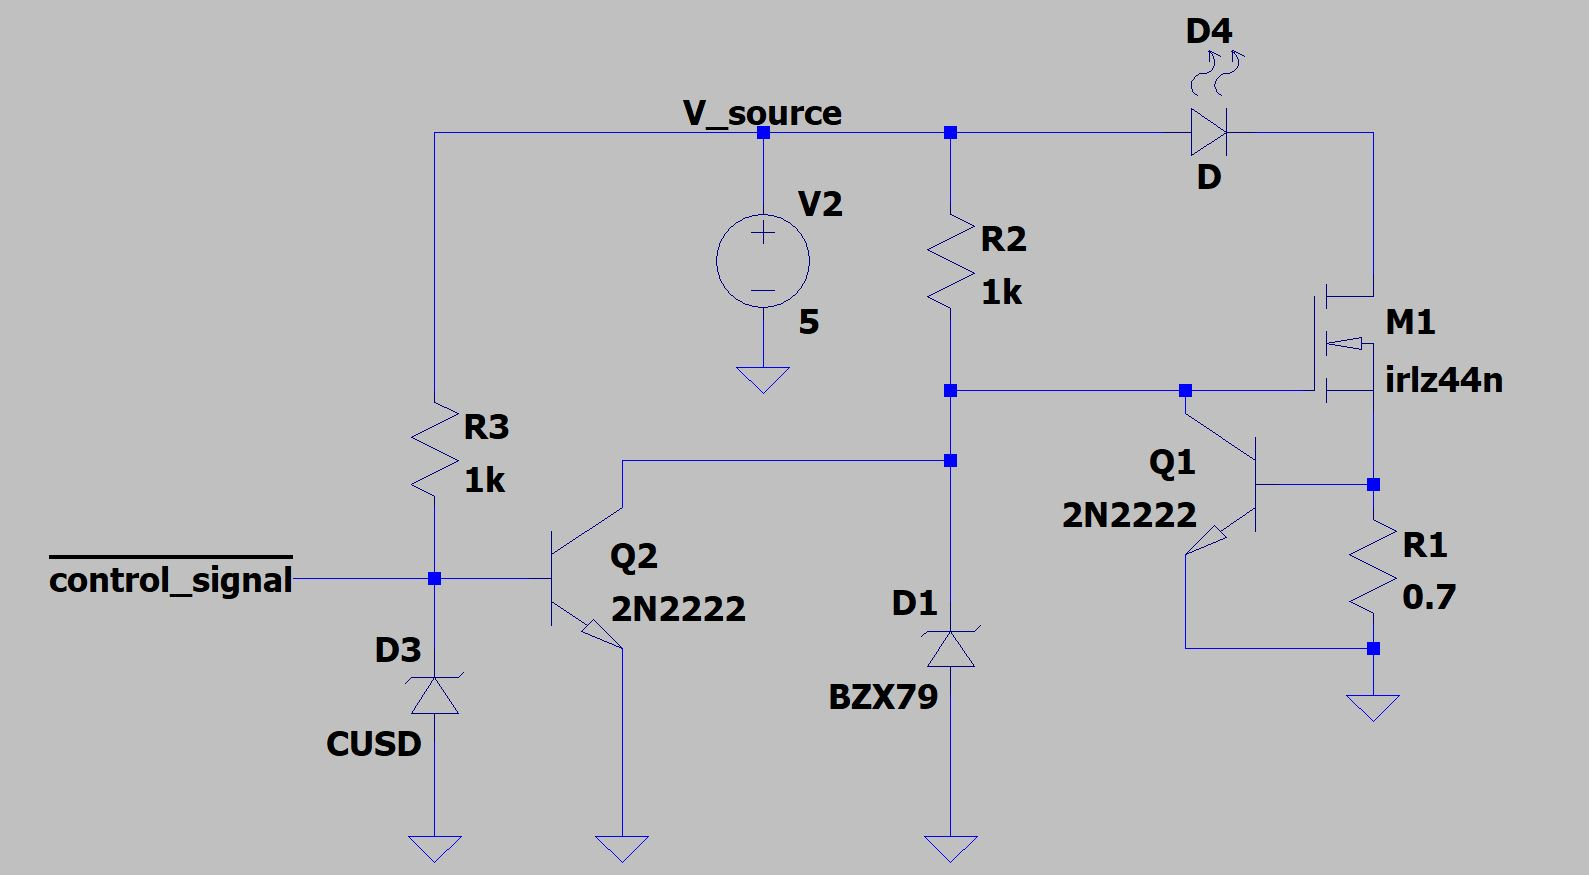
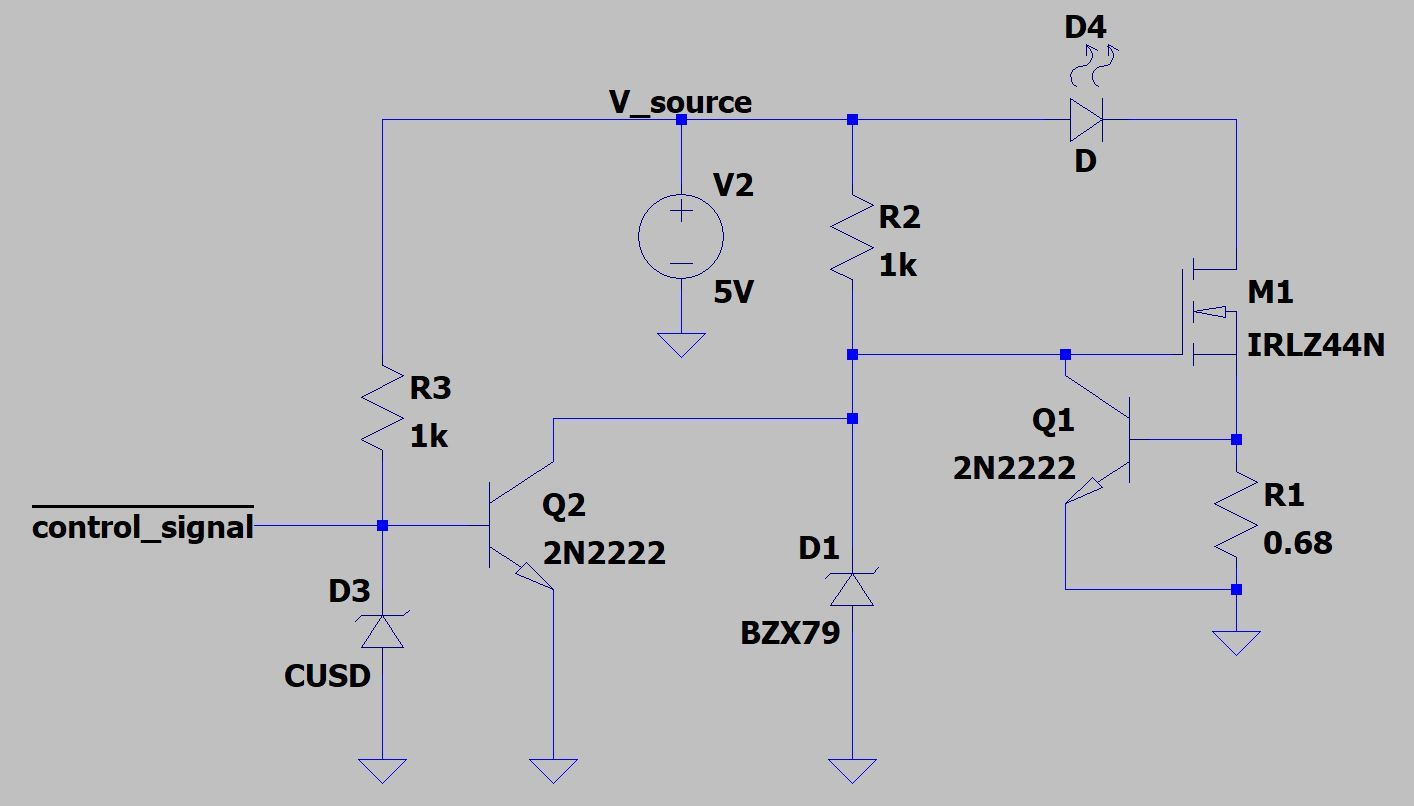
pwr led driver

diff --git a/body/Design.tex b/body/Design.tex
@@ -139,7 +139,9 @@ The strip-board implementation of the module is shown in figure \ref{fig:module_
 \subsection{Power LED Driver}
 
 \subsubsection{Functional Design}
-To operate the 3W high power IR LED a constant current driver module needed to be implemented. The module is designed to be controlled by an open-collector control signal such that when the control signal is pulled low the led is illuminated. The output of this module is a constant current designed to drive a power LED.
+To operate the 3W high power IR LED a constant current driver must be implemented. The module is designed to be controlled by an open-collector control signal such that when the control signal is pulled low the led is illuminated. The output of this module is a constant current designed to drive a power LED.
+
+The LED is to be modulated at 36kHz, typical LED drivers that utilize a switching regulator are not suitable for regulating the current at such high modulation frequencies. This is because the switching frequency used in commonly available constant current switching regulators is not high enough. Instead a linear regulator was designed using discrete components.
 
 \subsubsection{Schematic}
 Figure \ref{fig:schematic_power_led_driver} shows the design of a high power linear regulator, built around the IRLZ44 enhancement PMOSFET. Heat-sinks where attached to both the high power LED and the IRLZ44 power MOSFET.
@@ -154,9 +156,13 @@ Figure \ref{fig:schematic_power_led_driver} shows the design of a high power lin
 \subsubsection{Constant Current Control}
 %todo: Specs and component choice etc.
 
-Because the LED needs to be modulated at 36kHz, standard LED driver ICs that use a switching regulator are not viable. This is because the switching frequency used in commonly available constant current switching regulators is not high enough. Instead a linear regulator was designed using discrete components.
+Current regulation is performed by MOSFET M1, transistor Q1 and shunt resistor R1. When a sufficiently small current is flowing, the voltage drop across the R1 is negligible, so no current is allowed to flow from collector to emitter of Q1. Under these circumstances the gate of M1 is pulled high by R2 and current is allowed to flow through the LED.
 
-%todo: explain how the circuit works
+As the current through R1 increases, the voltage across the base-emitter of Q1 overcomes the forward voltage and the transistor begins to conduct. This conduction pulls the gate of M1 to ground reducing the current flowing through the LED.
+
+The maximum current ($I_{max}$) is set by choosing R1 such that the voltage across R1 is equal to the diode drop of the base-emitter of Q1. The diode drop may be approximated as 0.7V.
+
+R1 was chosen to be $0.68\Omega$, to achieve a current limit of just over 1A.
 
 
 \subsubsection{Module Realization}
